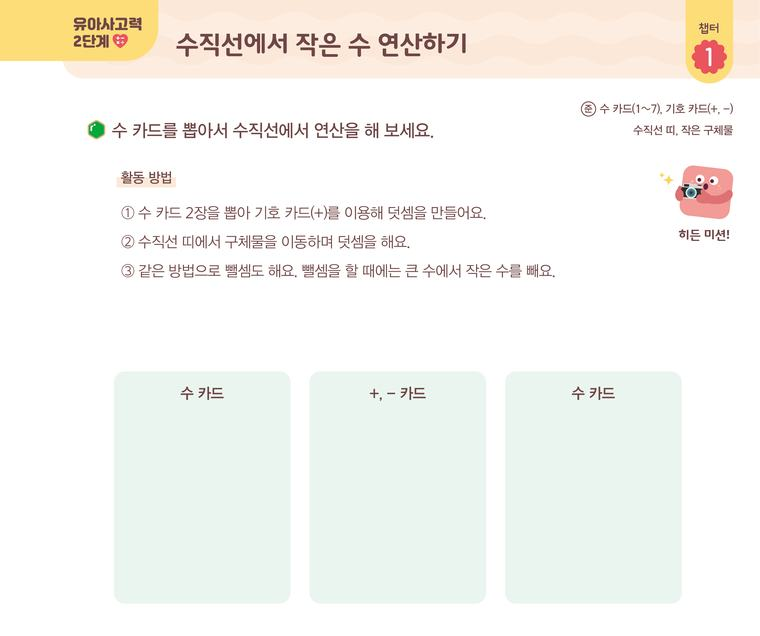
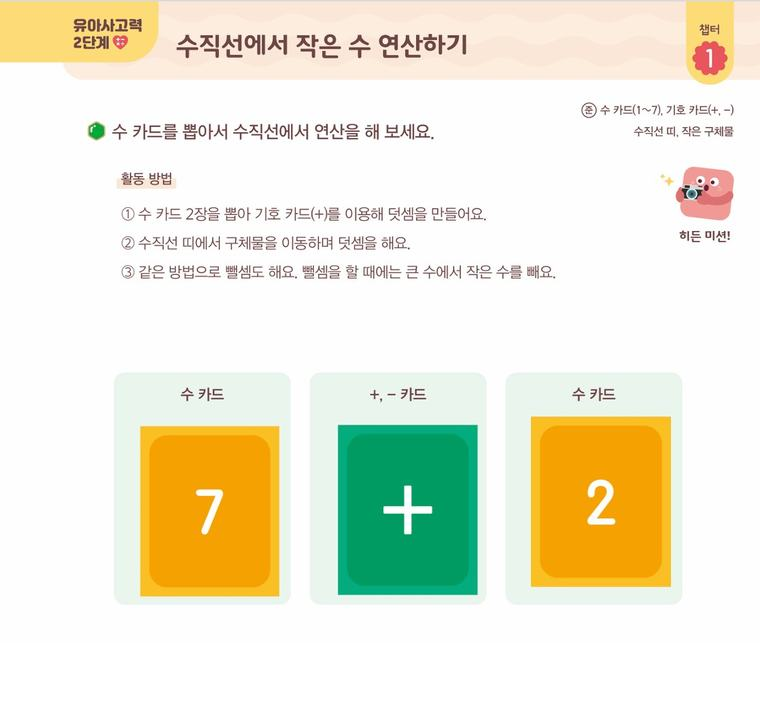
문항 이미지 수정

diff --git a/dalcom-level-survey/src/config/survey.config.ts b/dalcom-level-survey/src/config/survey.config.ts
@@ -118,7 +118,7 @@ export const CHOICE_QUESTIONS: ChoiceQuestion[] = [
       {
         src: '/images/q5-count-back.jpg',
         alt:
-          '유아 2단계 교재의 ’수의 순서 길 연결하기’ 페이지. 9, 13, 16처럼 적힌 칸과 구슬·수 막대 그림을 수의 순서대로 길처럼 연결하는 활동입니다.',
+          '유아 2단계 교재의 ’수의 순서 길 연결하기’ 페이지. 토끼가 출발해 당근까지, 1씩 작아지는 수의 길을 따라 연결하는 활동입니다.',
         label: '유아 2단계',
       },
     ],
@@ -136,7 +136,7 @@ export const CHOICE_QUESTIONS: ChoiceQuestion[] = [
       {
         src: '/images/q6-numberline.jpg',
         alt:
-          '유아 2단계 교재의 ’수직선에서 작은 수 연산하기’ 페이지. 수 카드와 기호 카드를 뽑아 수직선 위에서 덧셈과 뺄셈을 해 보는 활동입니다.',
+          '유아 2단계 교재의 ’수직선에서 작은 수 연산하기’ 페이지. 수 카드 7과 2, 더하기 기호 카드를 놓고 수직선 위에서 연산해 보는 활동입니다.',
         label: '유아 2단계',
       },
     ],
@@ -154,7 +154,7 @@ export const CHOICE_QUESTIONS: ChoiceQuestion[] = [
       {
         src: '/images/q7-count-by-two.jpg',
         alt:
-          '유아 2단계 교재의 ’2씩 묶어 세기’ 페이지. 구체물 20개를 2개씩 묶어 세고 짝수인지 홀수인지 이야기해 보는 활동입니다.',
+          '유아 2단계 교재의 ’2씩 묶어 세기’ 페이지. 케이크와 롤케이크 그림을 2개씩 묶어 세어 개수를 적고, 짝수인지 홀수인지 알아보는 활동입니다.',
         label: '유아 2단계',
       },
     ],
@@ -172,7 +172,7 @@ export const CHOICE_QUESTIONS: ChoiceQuestion[] = [
       {
         src: '/images/q8-make-ten.jpg',
         alt:
-          '유아 1단계 교재의 ’10 만들기’ 페이지. 두 가지 색깔의 구체물로 10을 만드는 여러 방법을 찾아 식으로 표현해 보는 활동입니다.',
+          '유아 1단계 교재의 ’10 만들기’ 페이지. 노란 보석 3개와 분홍 보석 7개로 10을 만들고, 3 더하기 7은 10이라는 식으로 표현한 예시입니다.',
         label: '유아 1단계',
       },
     ],
@@ -190,7 +190,7 @@ export const CHOICE_QUESTIONS: ChoiceQuestion[] = [
       {
         src: '/images/q9-compare.jpg',
         alt:
-          '유아 2단계 교재의 ’수의 크기 비교하기’ 페이지. 수 카드와 수 막대 카드를 놓고 더 큰 수와 작은 수를 기호 카드로 비교하는 활동입니다.',
+          '유아 2단계 교재의 ’수의 크기 비교하기’ 페이지. 수 카드 23과 28을 놓고 수 막대 카드로 나타내어 어느 쪽이 큰지 기호 카드로 비교하는 활동입니다.',
         label: '유아 2단계',
       },
     ],

diff --git a/dalcom-level-survey/README.md b/dalcom-level-survey/README.md
@@ -116,18 +116,18 @@ dalcom-level-survey/
 
 | 번호 | 문항 | 이미지 |
 | --- | --- | --- |
-| 5 | 20에서부터 거꾸로 세어 내려갈 수 있다 | 수의 순서 길 연결하기 (유아2 p7) |
+| 5 | 20에서부터 거꾸로 세어 내려갈 수 있다 | 수의 순서 길 연결하기 (유아2 p8) |
 | 6 | 한 자리 수의 연산 | 수직선에서 작은 수 연산하기 (유아2 p21) |
-| 7 | 두 개씩 묶어 세기 | 2씩 묶어 세기 (유아2 p82) |
+| 7 | 두 개씩 묶어 세기 | 2씩 묶어 세기 (유아2 p83) |
 | 8 | 더해서 10이 되는 두 수 | 10 만들기 (유아1 p183) |
 | 9 | 수의 크기를 비교할 수 있다 | 수의 크기 비교하기 (유아2 p124) |
 | 10 | 수를 '양'으로 이해할 수 있다 | 수배열표 (유아1 p161) |
 
 수·연산 6문항은 서술문 + `아직 어려워해요 / 할 수 있어요` 형식입니다.
 
-이미지는 `public/images/` 에 있고 모두 **760 × 636** 으로 같게 잘라 두어
-문항끼리 크기가 어긋나지 않습니다. 확대 보기 기능은 넣지 않았습니다.
-모바일에서 화면을 벌려 확대하면 충분히 보입니다.
+이미지는 `public/images/` 에 있고 가로 폭은 모두 **760px** 으로 같습니다.
+6·8·9번은 활동 장면이 세로로 길어 높이가 조금 더 깁니다.
+확대 보기 기능은 넣지 않았습니다. 모바일에서 화면을 벌려 확대하면 충분히 보입니다.
 
 `survey.config.ts` 의 각 문항에 `images: [...]` 로 지정합니다.
 2장을 넣으면 왼쪽 = 유아 1단계, 오른쪽 = 유아 2단계 로 나란히 배치됩니다.
